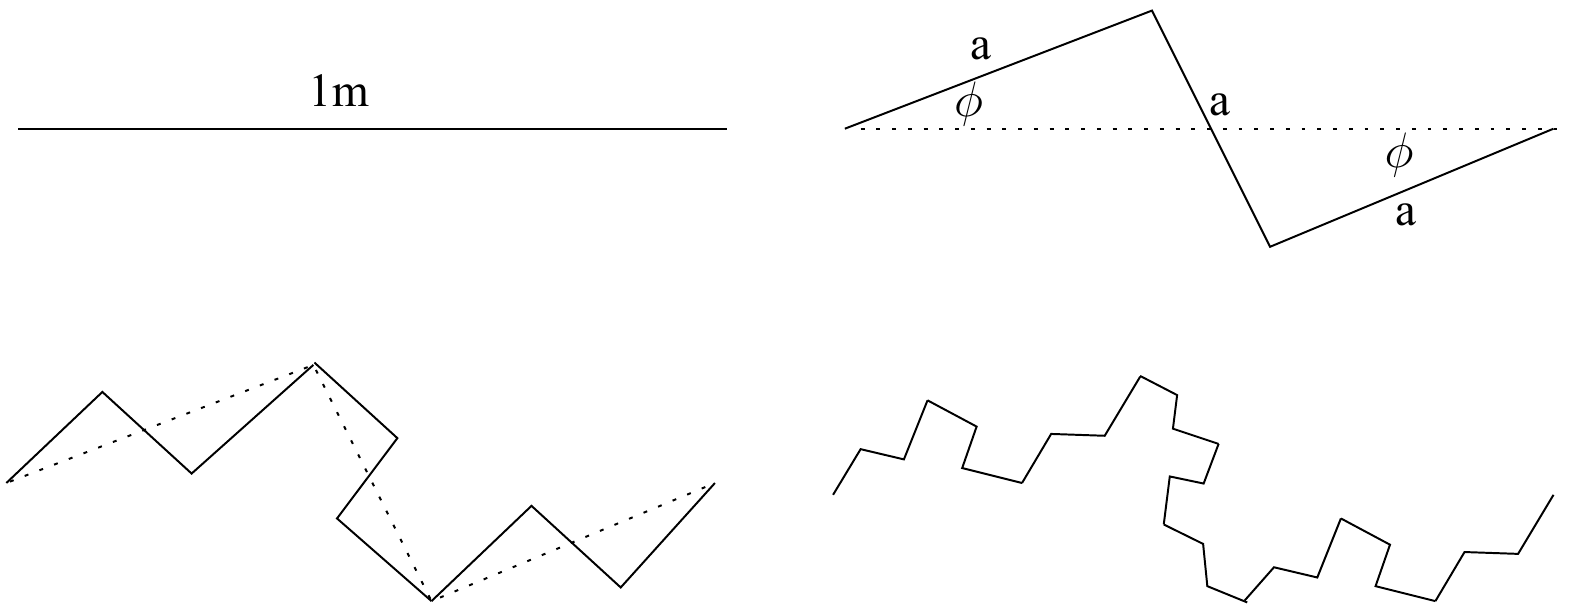
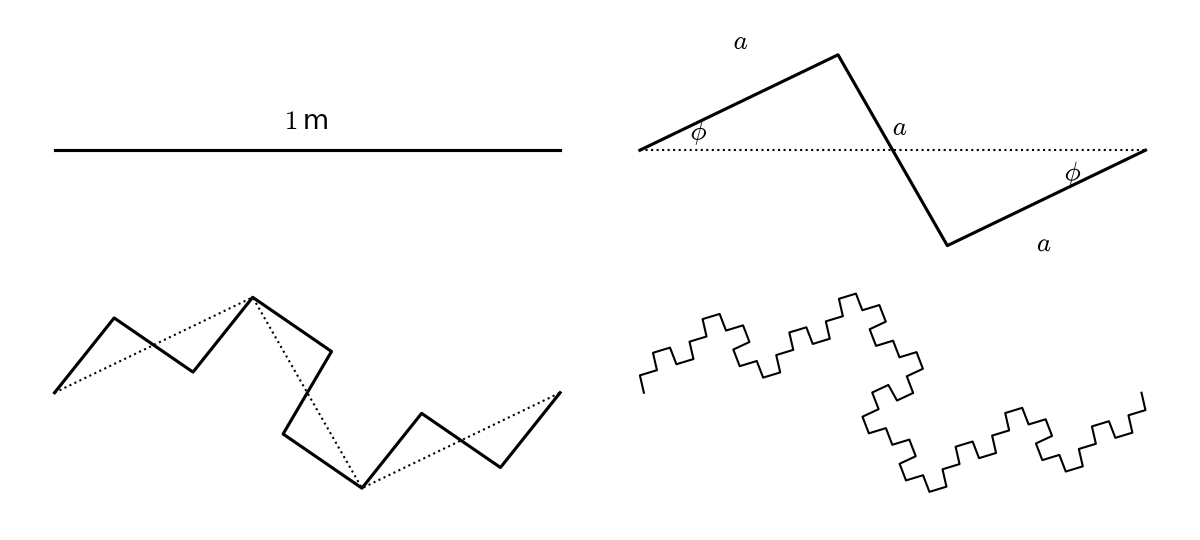
fractals: redraw schematics (cloud scaling, fractal curve, beam sketch, Poincare section) in matplotlib instead of copying

diff --git a/creators/python/fractals/fig_exercises.py b/creators/python/fractals/fig_exercises.py
@@ -1,0 +1,132 @@
+"""Schematics and the Poincare section for the fractals chapter and exercises.
+
+Produces:
+  python/_static/fractals/fractals_cloudscaling.png   schematic cloud scaling A ~ L^(7/3)
+                                                      (seeded synthetic scatter, not data)
+  python/_static/exercises/FractalCurve.png           recursive fractal-curve sketch
+  python/_static/exercises/ex0121r00_fig1.png         forced double-well beam sketch
+  python/_static/exercises/ex0121r00_fig2.png         its Poincare section (A=0.3, N=10000)
+"""
+
+from pathlib import Path
+
+import matplotlib.pyplot as plt
+import numpy as np
+from matplotlib.patches import Rectangle
+from scipy.integrate import solve_ivp
+
+STYLE = Path(__file__).resolve().parents[1] / "book.mplstyle"
+plt.style.use(STYLE)
+
+ROOT = Path(__file__).resolve().parents[3] / "python" / "_static"
+(ROOT / "fractals").mkdir(parents=True, exist_ok=True)
+(ROOT / "exercises").mkdir(parents=True, exist_ok=True)
+GRAY, RED = "#888888", "#b22222"
+
+# -- cloud scaling (schematic) -------------------------------------------------
+rng = np.random.default_rng(3)
+L = 10 ** rng.uniform(np.log10(45), 3, 250)
+A = 0.008 * (L / 45) ** (7 / 3) * 10 ** rng.normal(0, 0.1, L.size)
+Ls = np.array([45, 1000.0])
+fig, ax = plt.subplots(figsize=(4.2, 3.3))
+ax.loglog(L, A, ".", color="k", alpha=0.45, ms=4)
+ax.loglog(Ls, 0.008 * (Ls / 45) ** (7 / 3), color=RED, lw=2,
+          label=r"$A\sim L^{D_s},\ D_s\simeq 7/3$")
+ax.loglog(Ls, 0.008 * (Ls / 45) ** 2, "--", color=GRAY, lw=1.5,
+          label=r"smooth objects, $D_s=2$")
+ax.set_xlabel(r"linear size $L=V^{1/3}$ [m]")
+ax.set_ylabel(r"surface area $A$ [km$^2$]")
+ax.legend(loc="lower right")
+fig.tight_layout()
+fig.savefig(ROOT / "fractals" / "fractals_cloudscaling.png", dpi=150)
+plt.close(fig)
+
+# -- fractal curve sketch ---------------------------------------------------------
+phi = np.pi / 7
+c = np.cos(phi)
+a = (2 * c - np.sqrt(4 * c**2 - 3)) / 3  # equal segments: 3a^2 - 4a cos(phi) + 1 = 0
+gen = np.array([0, a * np.exp(1j * phi), 1 - a * np.exp(1j * phi), 1])
+
+
+def refine(pts):
+    out = []
+    for p, q in zip(pts[:-1], pts[1:]):
+        out += list(p + (q - p) * gen[:-1])
+    return np.array(out + [pts[-1]])
+
+
+fig, axes = plt.subplots(2, 2, figsize=(8.0, 3.6))
+(a0, a1), (a2, a3) = axes
+a0.plot([0, 1], [0, 0], "k", lw=1.5)
+a0.text(0.5, 0.04, r"$1\,$m", ha="center")
+a1.plot(gen.real, gen.imag, "k", lw=1.5)
+a1.plot([0, 1], [0, 0], "k:", lw=1)
+a1.text(0.2, 0.2, r"$a$", ha="center")
+a1.text(0.5, 0.03, r"$a$", ha="left")
+a1.text(0.8, -0.2, r"$a$", ha="center")
+a1.text(0.1, 0.02, r"$\phi$", ha="left")
+a1.text(0.84, -0.02, r"$\phi$", ha="left", va="top")
+p1 = gen.copy()
+p2 = refine(p1)
+a2.plot(p2.real, p2.imag, "k", lw=1.5)
+a2.plot(p1.real, p1.imag, "k:", lw=1)
+p = np.array([0, 1 + 0j])
+for _ in range(4):
+    p = refine(p)
+a3.plot(p.real, p.imag, "k", lw=1)
+for ax in axes.ravel():
+    ax.set_aspect("equal")
+    ax.axis("off")
+fig.tight_layout()
+fig.savefig(ROOT / "exercises" / "FractalCurve.png", dpi=150)
+plt.close(fig)
+
+# -- double-well beam sketch ------------------------------------------------------
+fig, ax = plt.subplots(figsize=(5.0, 2.8))
+lw = 1.5
+ax.add_patch(Rectangle((0.6, 0.0), 6.2, 0.3, fc="none", ec="k", lw=lw))      # base
+ax.add_patch(Rectangle((0.6, 0.0), 0.3, 4.8, fc="none", ec="k", lw=lw))      # left wall
+ax.add_patch(Rectangle((0.6, 4.5), 6.6, 0.3, fc="none", ec="k", lw=lw))      # top
+ax.add_patch(Rectangle((-0.8, 1.8), 1.7, 0.3, fc="none", ec="k", lw=lw))     # driving arm
+ax.add_patch(Rectangle((2.2, 0.3), 0.55, 0.3, fc="#bbbbbb", ec="k", lw=lw, hatch="////"))
+ax.add_patch(Rectangle((5.0, 0.3), 0.55, 0.3, fc="#bbbbbb", ec="k", lw=lw, hatch="////"))
+ax.plot([4.0, 4.0], [0.3, 4.5], "k--", lw=1)
+s = np.linspace(0, 1, 100)
+ax.plot(4.0 + 1.1 * s**2.2, 4.5 - 3.9 * s, "k", lw=2)
+ax.annotate("", xy=(5.05, 0.8), xytext=(4.0, 0.8), arrowprops=dict(arrowstyle="-|>", color="k"))
+ax.text(4.5, 0.9, r"$x$", ha="center", va="bottom")
+ax.text(4.9, 2.5, "beam")
+ax.text(2.4, 0.75, "magnet", ha="center")
+ax.text(7.3, 0.05, "rigid frame", va="bottom")
+ax.text(-2.4, 3.0, "periodic\nforcing", ha="left")
+ax.annotate("", xy=(-0.9, 2.4), xytext=(0.5, 2.4),
+            arrowprops=dict(arrowstyle="<|-|>", color="k"))
+ax.set_xlim(-2.5, 8.8)
+ax.set_ylim(-0.1, 5.0)
+ax.set_aspect("equal")
+ax.axis("off")
+fig.savefig(ROOT / "exercises" / "ex0121r00_fig1.png", dpi=150, bbox_inches="tight")
+plt.close(fig)
+
+# -- Poincare section of the forced double well -----------------------------------
+A_, f_, om, N = 0.3, 0.15, 1.0, 10000
+
+
+def rhs(t, s):
+    x, y, z = s
+    return [y, -f_ * y + x - x**3 + A_ * np.cos(z), om]
+
+
+tt = 2 * np.pi / om * np.arange(1, N + 1)
+sol = solve_ivp(rhs, (0, tt[-1]), [0, 0, 0], t_eval=tt, rtol=1e-8, atol=1e-10)
+x, y = sol.y[0][N // 2:], sol.y[1][N // 2:]
+fig, ax = plt.subplots(figsize=(5.0, 3.0))
+ax.plot(x, y, "k.", ms=2)
+ax.set_xlim(-2, 2)
+ax.set_ylim(-1, 1)
+ax.set_xlabel("$x$")
+ax.set_ylabel("$y$")
+fig.tight_layout()
+fig.savefig(ROOT / "exercises" / "ex0121r00_fig2.png", dpi=150)
+plt.close(fig)
+print("wrote cloudscaling, FractalCurve, ex0121r00_fig1, ex0121r00_fig2")

diff --git a/python/_includes/fractals_exercises.md b/python/_includes/fractals_exercises.md
@@ -27,6 +27,10 @@ Consider a slender steel beam with a damping coefficient $f$ that is clamped in 
 Sketch of the mechanical system.
 ```
 
+:::{only} html
+*[Code behind this figure](https://github.com/mvreeuwijk/chaosbook/blob/main/creators/python/fractals/fig_exercises.py)*
+:::
+
 Written as an autonomous system of first order nonlinear differential equations, the system's behavior is defined by
 
 ```{math}
@@ -49,6 +53,10 @@ b) Determine the box-dimension of this attractor.
 Result from executing the starter cell with $N=10000$.
 ```
 
+:::{only} html
+*[Code behind this figure](https://github.com/mvreeuwijk/chaosbook/blob/main/creators/python/fractals/fig_exercises.py)*
+:::
+
 
 ### Fractal Curve
 
@@ -59,6 +67,10 @@ Result from executing the starter cell with $N=10000$.
 
 Fractal Curve generation: first four recursive steps
 ```
+
+:::{only} html
+*[Code behind this figure](https://github.com/mvreeuwijk/chaosbook/blob/main/creators/python/fractals/fig_exercises.py)*
+:::
 
 Consider the above sketched recursive generation of a family of fractal curves parameterized by $\phi$, with $0 \leq \phi \leq \pi/6$. Note that the three segments have equal size $a=a(\phi)$ and that $a\cos(\phi) \leq 1/2$.
 

diff --git a/python/fractals.md b/python/fractals.md
@@ -441,5 +441,9 @@ The value $7/3$ is no accident. It is precisely the surface dimension for which 
 Surface area $A$ against linear size $L=V^{1/3}$ for a population of simulated cumulus clouds (schematic, after Siebesma \& Jonker, 2000). The clouds obey $A\sim L^{D_s}$ with $D_s\simeq 7/3$ (solid line), well above the $D_s=2$ of smooth, Euclidean shapes (dashed line).
 ```
 
+:::{only} html
+*[Code behind this figure](https://github.com/mvreeuwijk/chaosbook/blob/main/creators/python/fractals/fig_exercises.py)*
+:::
+
 ```{include} _includes/fractals_exercises.md
 ```
